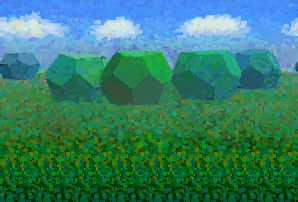
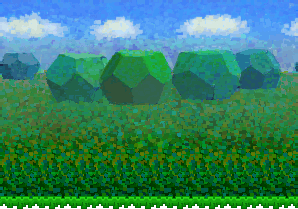
some changes

diff --git a/index.html b/index.html
@@ -10,26 +10,47 @@
 		<!--on deploy add "/" to style.css-->
 
 		<!--title-->
-		<title>Paper Mario 64 Layout</title>
+		<title>Conallia Story!!!</title>
 
 		<!--scripts-->
 		<script src="https://ajax.googleapis.com/ajax/libs/jquery/3.6.0/jquery.min.js"></script>
 		<script src="include.js"></script>
 	</head>
 	<body>
+		<img src="resources/bg.png" id="bg">
 		<header>
 			<img src="resources/conallia_story.png">
 		</header>
 		<main>
-			<div id="sidenav"></div>
-			<div class="box">
-				<img src="resources/mario_read.png" class="topright">
-				<div class="textbox">
-					<img src="resources/goombario_portrait_dithered.png" id="goombario">
-					<p>
-						Welcome to Conallia Story! This is a test layout at the moment, but I may use this for my main neocities site.
-					</p>
-					<img src="resources/toad_hi.gif" style="float: left; margin-right: 10px;"> <img src="resources/HELLO.gif">
+			<div class="flexv">
+				<div id="sidenav" style="margin-bottom: 5px;"></div>
+				<div class="box">
+					<audio controls autoplay loop class="audio">
+						<source src="../neocities site/Paper Mario 64 OST - Koopa Village Theme-6bNdNEXiT9c.mp3">
+					</audio>
+				</div>
+			</div>
+			<div class="flexv" style="width: 60%;">
+				<div class="box">
+					<img src="resources/mario_read.png" class="topright">
+					<div class="textbox">
+						<img src="resources/goombario_portrait_dithered.png" id="goombario">
+						<img src="resources/toad_hi.gif" style="float: left; margin-right: 10px;"> <img src="resources/HELLO.gif">
+						<p>
+						Hii!  I'm Conallia, a random person on the internet  who likes linux, open source, free software and creating websites. My hobbies include, writing, drawing, learning languages, gaming and conlanging. My favourite food is probably sushi? (all kinds, not just makizushi) salmon to be exact. I also love tea , especially when it's green. Also, as you can see, I like paper mario 64. <img src="resources/emojis/roll.gif">
+						</p>
+						<img src="resources/fireyoshi.gif" style="position: absolute; bottom: 0; right: 0;">
+					</div>
+				</div>
+				<div class="box">
+					<img src="resources/whats_new.png" class="topcent" style="width: 500px;">
+					<div class="textbox" style="font-size: 15px;">
+						<img src="resources/yoshi_sit.png" class="topleft">
+						<img src="resources/bombette_portrait_dithered.png" id="bombette">
+						<ul>
+							<li>Everything is new</li>
+						</ul>
+					</div>
 				</div>
 			</div>
 			<div class="flexd">

diff --git a/style.css b/style.css
@@ -1,11 +1,33 @@
+@font-face {
+    font-family: 'Hey-Gorgeous';
+    src:url('resources/fonts/Hey-Gorgeous.ttf.woff') format('woff'),
+        url('resources/fonts/Hey-Gorgeous.ttf.svg#Hey-Gorgeous') format('svg'),
+        url('resources/fonts/Hey-Gorgeous.ttf.eot'),
+        url('resources/fonts/Hey-Gorgeous.ttf.eot?#iefix') format('embedded-opentype'); 
+    font-weight: normal;
+    font-style: normal;
+}
+
+* {
+	font-family: 'Hey-Gorgeous';	
+}
+
 html {
 	height: 100%;
+	cursor: url(resources/fingercur2.png), auto;
 }
 
 body {
-	background-image: url(resources/bg_dithered_3.png);
-	background-size: contain;
+	background-image: url(resources/dirt.bmp);
 	image-rendering: pixelated;
+}
+
+#bg {
+	position: absolute;
+	top: 0;
+	left: 0;
+	z-index: -1;
+	width: 100%;
 }
 
 header {
@@ -70,14 +92,20 @@ img {
 	transform: translate(5px);
 }
 
+.flexv {
+	display: flex;
+	flex-flow: column nowrap;
+	margin-right: 5px;
+	margin-left: 5px;
+}
+
 .box {
 	position: relative;
 	display: flex;
 	flex-flow: column nowrap;
 	justify-content: center;
-	margin-right: 5px;
-	margin-left: 5px;
-	width: 60%;
+	margin-bottom: 5px;
+	width: 100%;
 	border: 2px solid black;
 	border-radius: 8px;
 	background-color: #f2f2f2;
@@ -99,7 +127,14 @@ img {
 
 .textbox {
 	margin: 10px;
-	text-align: justify;
+	font-size: 10px;
+}
+
+.bottomleft {
+	position: absolute;
+	bottom: 0;
+	left: 0;
+	transform: translate(-50%, 50%);
 }
 
 .flexd {
@@ -110,4 +145,22 @@ img {
 
 .flexd img {
 	margin-bottom: 10px;
+}
+
+.topcent {
+	position: absolute;
+	top: 0;
+	right: 0;
+	margin-right: 30px;
+	transform: translate(0, -60%);
+}
+
+#bombette {
+	float: right;
+}
+
+.audio {
+	padding: 5px;
+	width: auto;
+	height: 30px;
 }
